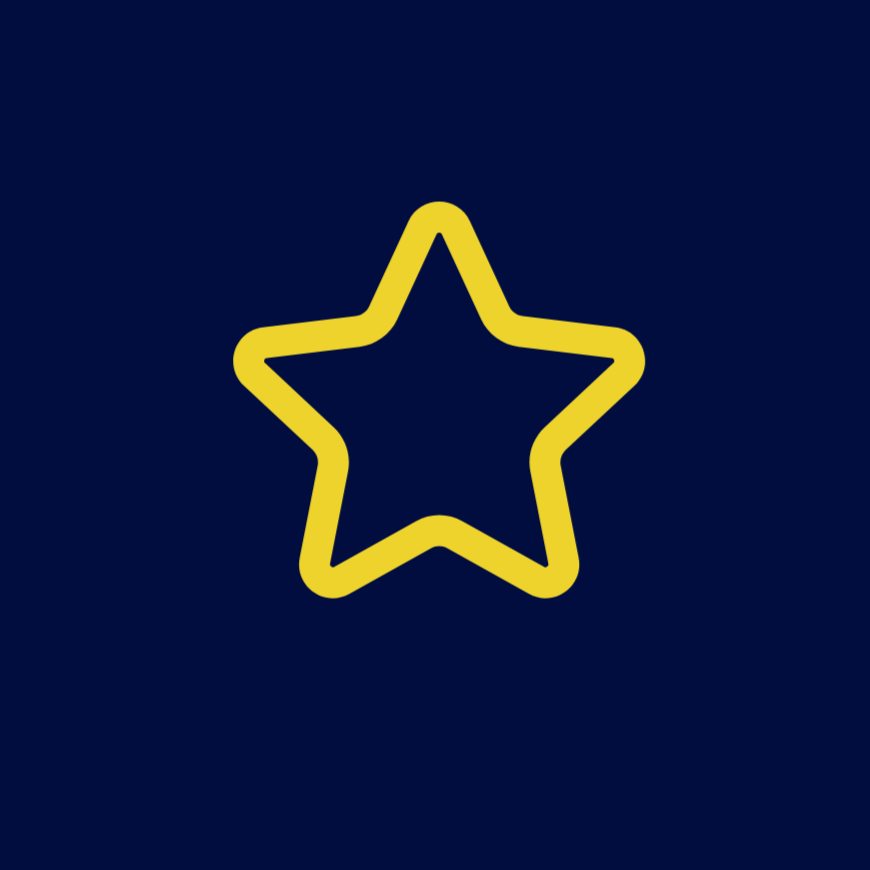
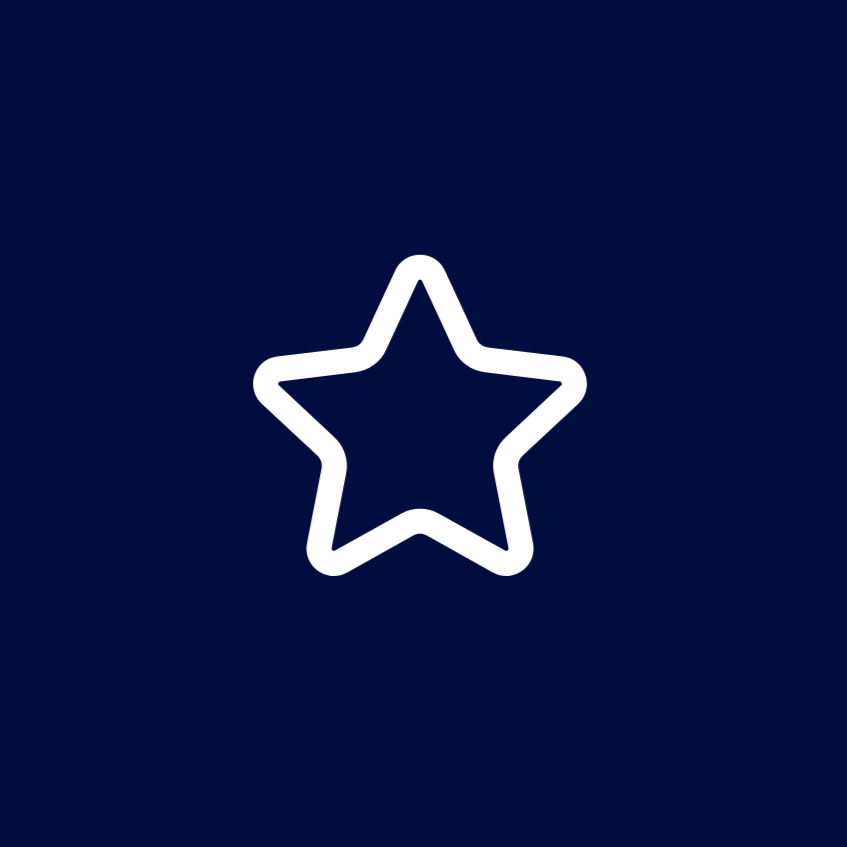
mobile

Changed region(s): [[0.2456, 0.2149, 0.7674, 0.706]]

diff --git a/proposta/index.html b/proposta/index.html
@@ -41,8 +41,9 @@
                 <img src="marcella.jpg.png" alt="Marcella" class="avatar-img">
             </div>
             <div class="profile-text">
-                <h1>Mazul Design</h1>
-                <p>Olá, eu sou a Marcella, fundadora da Mazul Design! Crio soluções visuais criativas para marcas, projetos e demandas específicas. Se você precisa de algo que realmente funcione visualmente, eu posso te ajudar!</p>
+                <h1>Olá, vamos começar?</h1>
+                <p>Eu sou a Marcella Mazul, sua futura designer! Meu foco é resolver suas demandas com agilidade e garantir que toda a comunicação visual de vocês tenha unidade e impacto.
+Sinta-se à vontade para navegar pelos detalhes desta proposta e escolher por onde quer começar. Será um prazer fazer parte da Brasil Tecpar!</p>
             </div>
             <div class="social-links-container">
                 <div class="social-links">
@@ -67,7 +68,7 @@
             <!-- CARD 2 -->
             <div class="card navy" onclick="openModal('modal-orcamento')">
                 <div class="card-content">
-                    <img src="estrela.png" alt="Ícone">
+                    <img src="orçamento.png" alt="Ícone">
                 </div>
                 <div class="card-footer">Opções de Investimento</div>
             </div>

diff --git a/proposta/style.css b/proposta/style.css
@@ -148,7 +148,7 @@ body {
 
 .avatar-img { width: 100%; height: 100%; object-fit: cover; }
 
-.profile-text h1 { font-size: 2.2rem; margin-bottom: 15px; color: var(--navy); }
+.profile-text h1 { font-size: 2.2rem; margin-bottom: 15px; color: #017EDA; }
 .profile-text p { color: #555; line-height: 1.6; font-size: 1.1rem; }
 
 /* SOCIAL LINKS */
